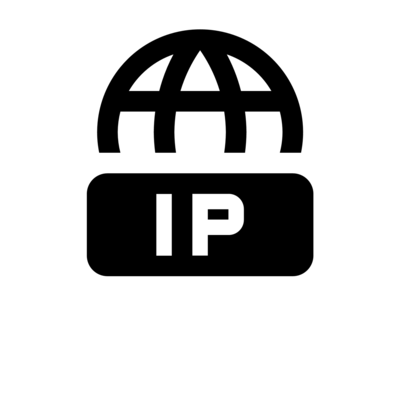
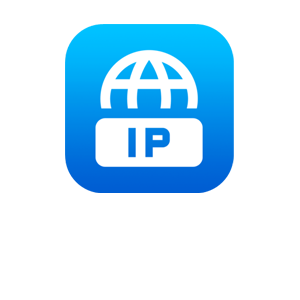
v0.4 update
few updates and code/bug fixes

diff --git a/changelog.md b/changelog.md
@@ -1,3 +1,13 @@
+v0.4  (202404)
+  
+  - changed the icon of MyIP (thanks Barbira)  
+  - MyIP displays msg if wifi is off.  
+  - Fixed a bug: MyIP displayed the previous IP even with wifi off.  
+  - changed syncthing (same version) arch from `armv7sf-k3.2` to `aarch64-k3.10`  
+  - Now Syncthing shows as `Syncthing ON` when started and as `Syncthing` when stopped.  
+  - Syncthing homepage show system as `Trimui Smart Pro` instead of `Tina Linux`.  
+  - some code changes/cleanup  
+
 v0.3 (20240422)  
   
 - added the "MyIP" app.  

diff --git a/README.md b/README.md
@@ -16,7 +16,6 @@ It uses the sdl2imgshow and displays your IP when connected to the wifi, exits i
   
 ### TODO:  
 - make use of functions to isolate some things, add possibilities and streamline the script 
-- ask for wifi to be turned on if off (MyIP app).  
 - verify if some binaries are available  
   
 ### CREDITS and thanks:  
